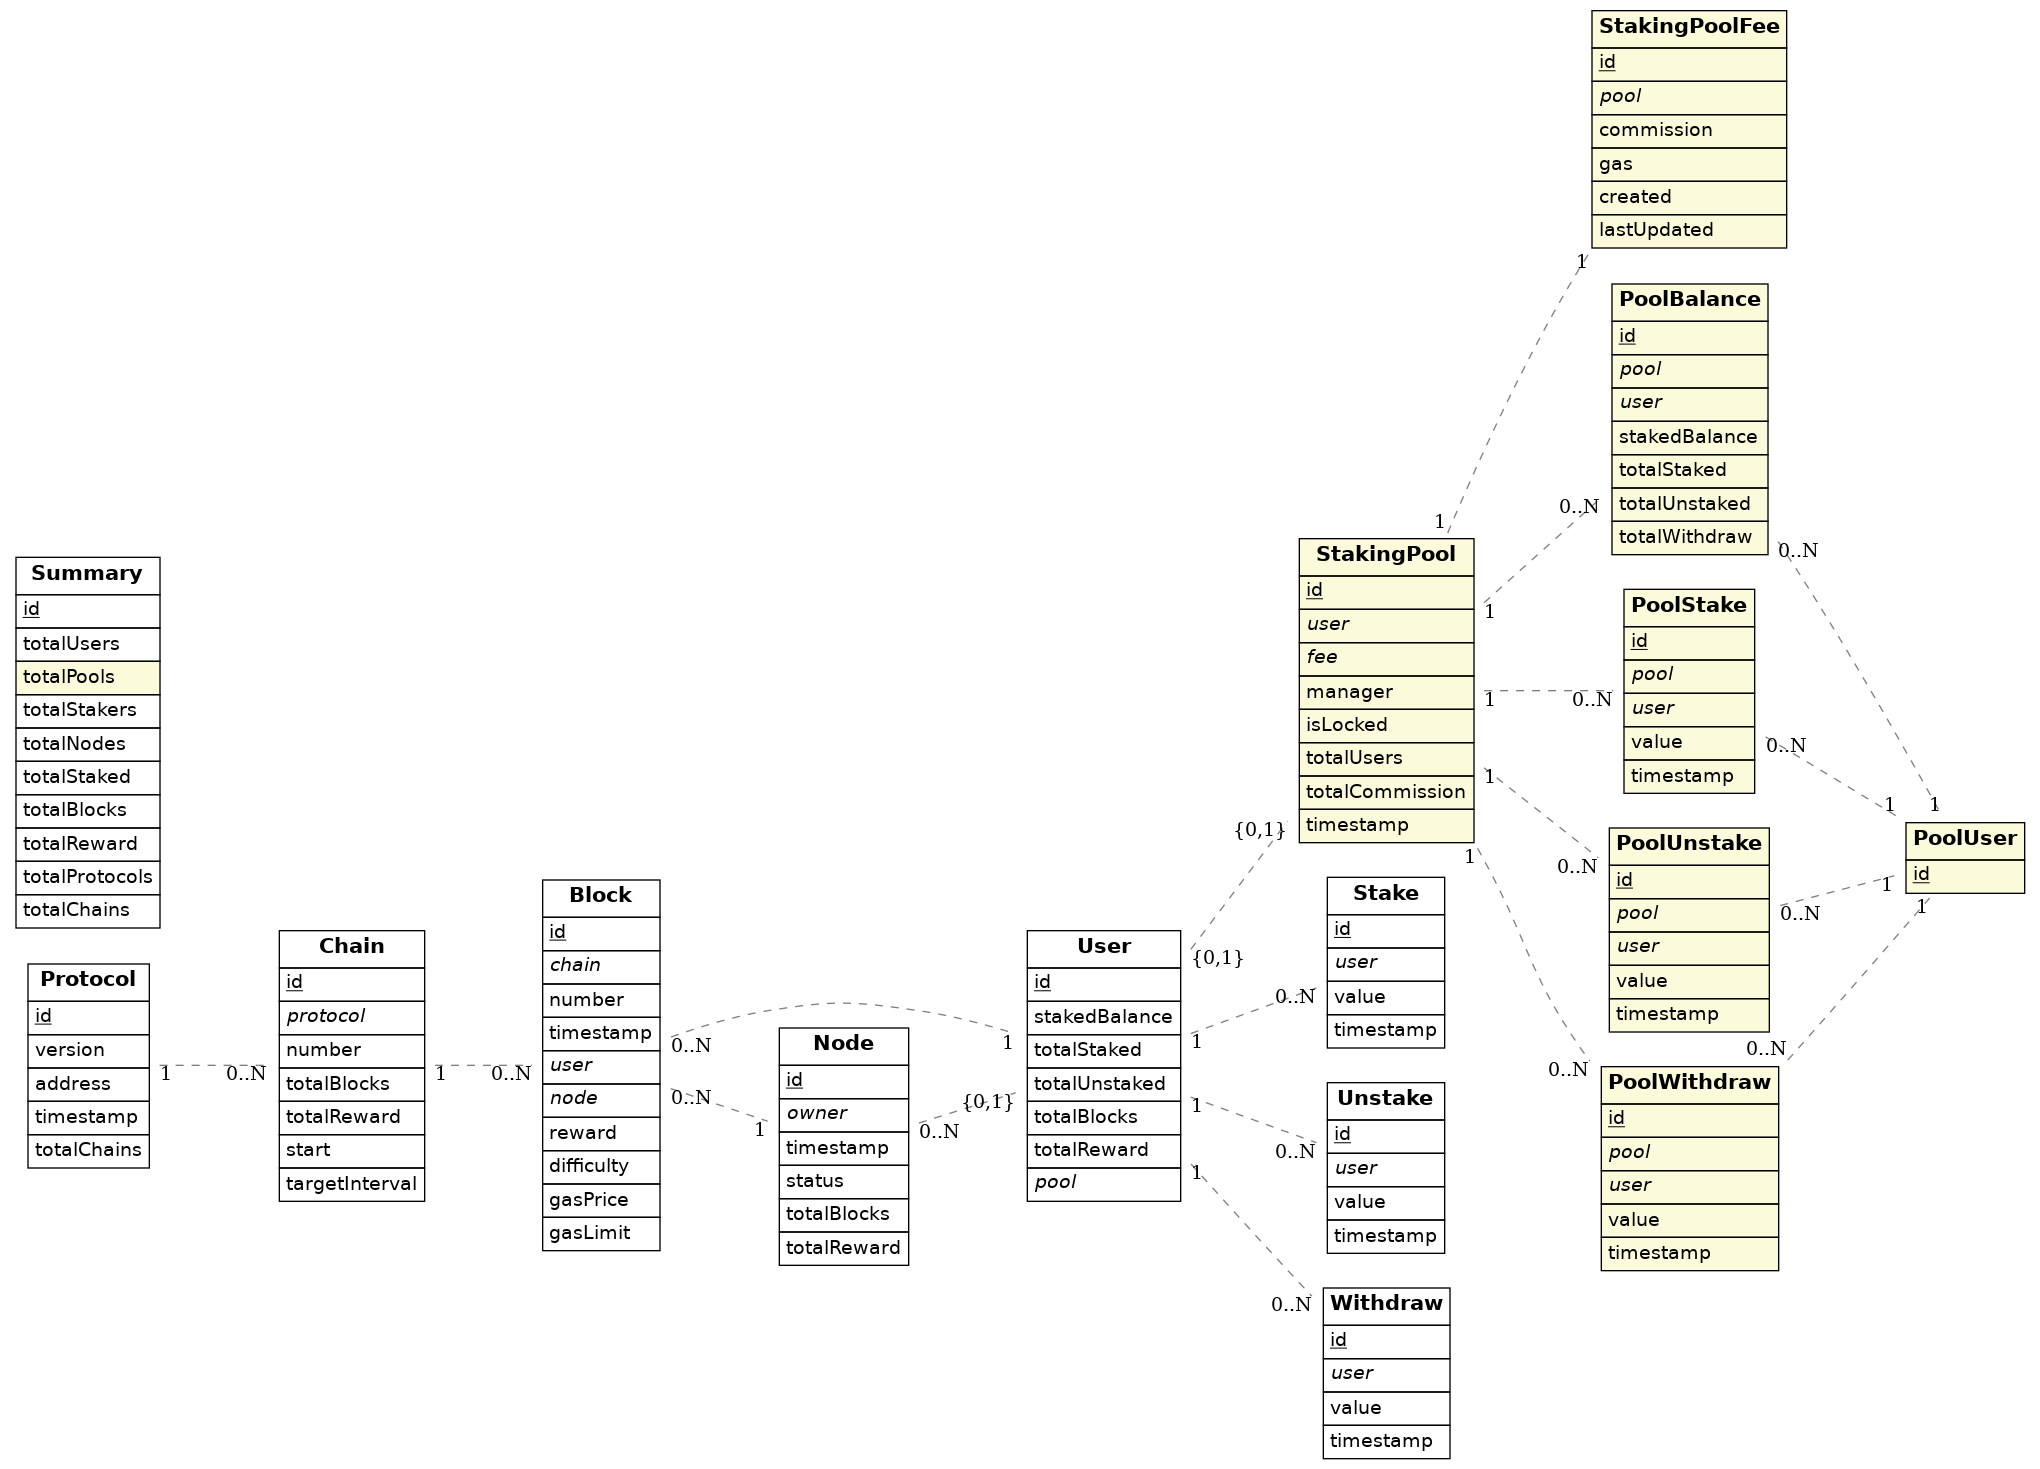
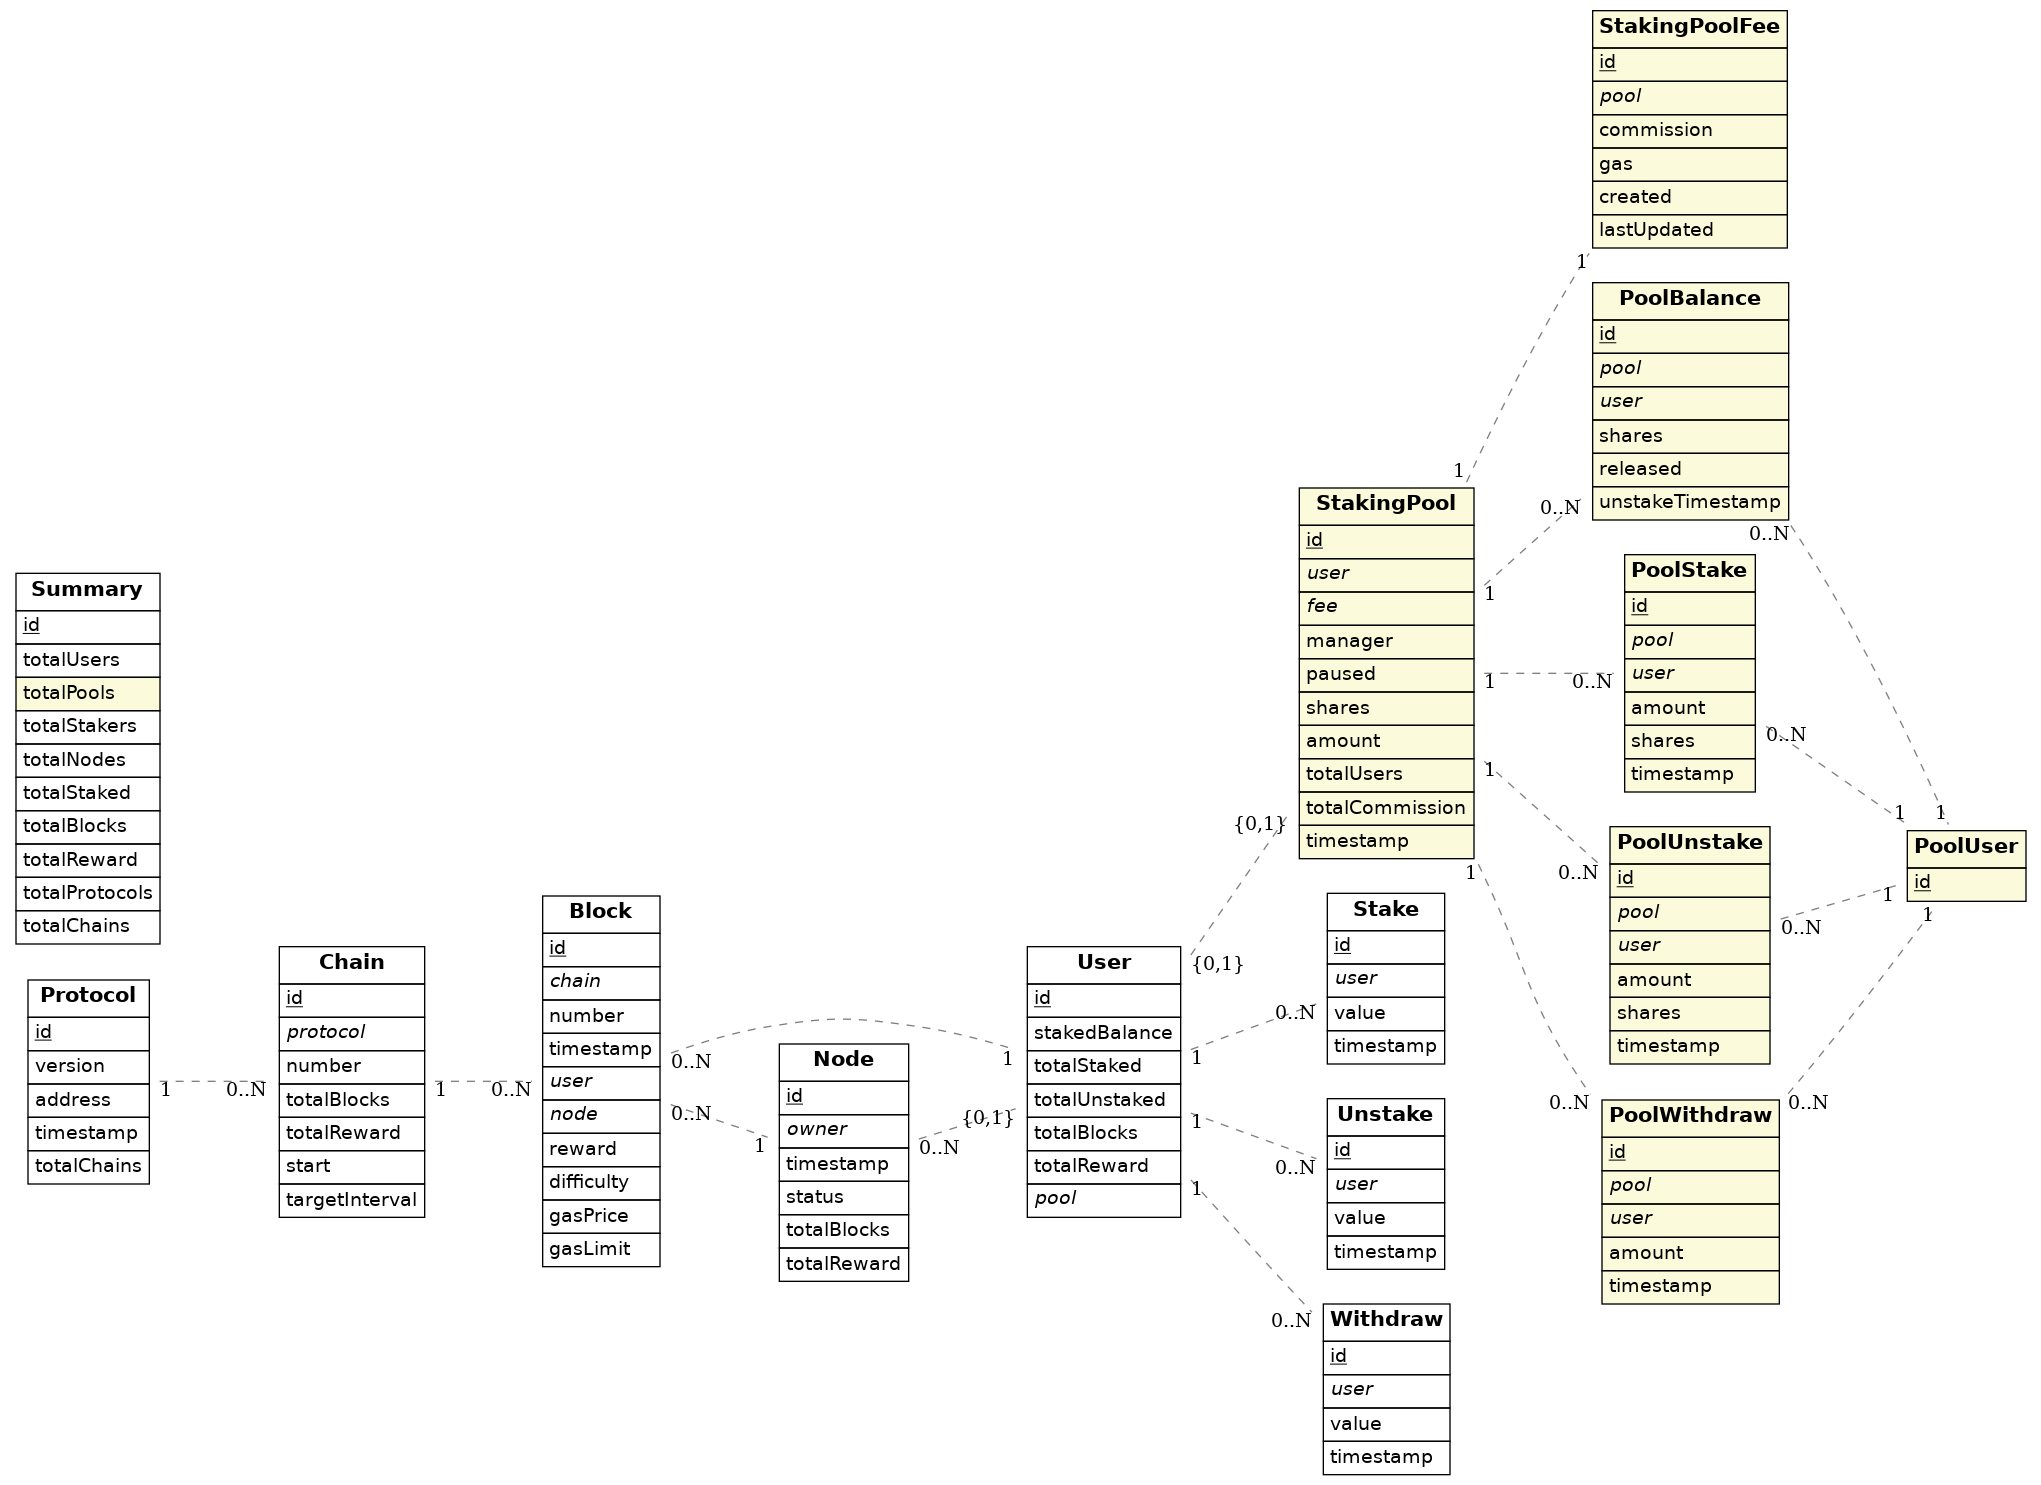
Exposing pool shares structure

diff --git a/src/pool.ts b/src/pool.ts
@@ -26,7 +26,11 @@ import {
     GasTaxCommission,
     StakingPoolImpl,
 } from "../generated/templates"
-import { Stake, Unstake, Withdraw } from "../generated/StakingImpl/StakingImpl"
+import {
+    Stake,
+    Unstake,
+    Withdraw,
+} from "../generated/templates/StakingPoolImpl/StakingPoolImpl"
 import { NewFlatRateCommissionStakingPool } from "../generated/StakingPoolFactoryImpl/StakingPoolFactoryImpl"
 import { NewGasTaxCommissionStakingPool } from "../generated/StakingPoolFactoryImpl/StakingPoolFactoryImpl"
 import * as user from "./user"
@@ -100,10 +104,9 @@ function loadOrCreateBalance(pool: Address, user: Address): PoolBalance {
         balance = new PoolBalance(id)
         balance.pool = pool.toHex()
         balance.user = user.toHex()
-        balance.stakedBalance = BigInt.fromI32(0)
-        balance.totalStaked = BigInt.fromI32(0)
-        balance.totalUnstaked = BigInt.fromI32(0)
-        balance.totalWithdraw = BigInt.fromI32(0)
+        balance.shares = BigInt.fromI32(0)
+        balance.released = BigInt.fromI32(0)
+        balance.unstakeTimestamp = BigInt.fromI32(0)
     }
     return balance!
 }
@@ -121,6 +124,8 @@ function createPool(
 
     pool.manager = manager.toHex()
     pool.user = u.id
+    pool.amount = BigInt.fromI32(0)
+    pool.shares = BigInt.fromI32(0)
     pool.totalUsers = 0
     pool.totalCommission = BigInt.fromI32(0)
     pool.timestamp = timestamp
@@ -138,26 +143,34 @@ export function handleStake(event: Stake): void {
     let user = new PoolUser(event.params.user.toHex())
     user.save()
 
-    // save entity
+    // save stake entity
     let entity = new PoolStake(event.transaction.hash.toHex())
     entity.pool = event.address.toHex()
     entity.user = event.params.user.toHex()
-    entity.value = event.params.amount
+    entity.amount = event.params.amount
+    entity.shares = event.params.shares
     entity.timestamp = event.block.timestamp
     entity.save()
 
     // update balance
     let balance = loadOrCreateBalance(event.address, event.params.user)
 
-    if (balance.stakedBalance.isZero()) {
+    if (balance.shares.isZero()) {
+        // increment number of users
         let pool = StakingPool.load(event.address.toHex())!
         pool.totalUsers++
         pool.save()
     }
 
-    balance.stakedBalance = balance.stakedBalance.plus(event.params.amount)
-    balance.totalStaked = balance.totalStaked.plus(event.params.amount)
+    balance.shares = balance.shares.plus(event.params.shares)
+    balance.unstakeTimestamp = event.params.unlockTimestamp
     balance.save()
+
+    // update pool
+    let pool = StakingPool.load(event.address.toHex())!
+    pool.amount = pool.amount.plus(event.params.amount)
+    pool.shares = pool.shares.plus(event.params.shares)
+    pool.save()
 }
 
 export function handleUnstake(event: Unstake): void {
@@ -165,15 +178,26 @@ export function handleUnstake(event: Unstake): void {
     let entity = new PoolUnstake(event.transaction.hash.toHex())
     entity.pool = event.address.toHex()
     entity.user = event.params.user.toHex()
-    entity.value = event.params.amount
+    entity.shares = event.params.shares
+    entity.amount = event.params.amount
     entity.timestamp = event.block.timestamp
     entity.save()
 
     // update balance
     let balance = loadOrCreateBalance(event.address, event.params.user)
-    balance.stakedBalance = balance.stakedBalance.minus(event.params.amount)
-    balance.totalUnstaked = balance.totalUnstaked.plus(event.params.amount)
+    balance.shares = balance.shares.minus(event.params.shares)
+    balance.released = balance.released.plus(event.params.amount)
     balance.save()
+
+    // update pool
+    let pool = StakingPool.load(event.address.toHex())!
+    if (balance.shares.isZero()) {
+        // decrement number of users
+        pool.totalUsers--
+    }
+    pool.shares = pool.shares.minus(event.params.shares)
+    pool.amount = pool.amount.minus(event.params.amount)
+    pool.save()
 }
 
 export function handleWithdraw(event: Withdraw): void {
@@ -181,13 +205,13 @@ export function handleWithdraw(event: Withdraw): void {
     let entity = new PoolWithdraw(event.transaction.hash.toHex())
     entity.pool = event.address.toHex()
     entity.user = event.params.user.toHex()
-    entity.value = event.params.amount
+    entity.amount = event.params.amount
     entity.timestamp = event.block.timestamp
     entity.save()
 
     // update balance
     let balance = loadOrCreateBalance(event.address, event.params.user)
-    balance.totalWithdraw = balance.totalWithdraw.plus(event.params.amount)
+    balance.released = BigInt.fromI32(0)
     balance.save()
 }
 
@@ -199,14 +223,15 @@ export function handleBlockProduced(event: BlockProduced): void {
         block.save()
     }
 
+    let pool = StakingPool.load(event.address.toHex())!
+
     // increment the total commission of the pool
-    let pool = StakingPool.load(event.address.toHex())
-    if (pool) {
-        pool.totalCommission = pool.totalCommission.plus(
-            event.params.commission
-        )
-        pool.save()
-    }
+    pool.totalCommission = pool.totalCommission.plus(event.params.commission)
+
+    // increment the pool amount
+    let remainingReward = event.params.reward.minus(event.params.commission)
+    pool.amount = pool.amount.plus(remainingReward)
+    pool.save()
 }
 
 export function handlePaused(event: Paused): void {
